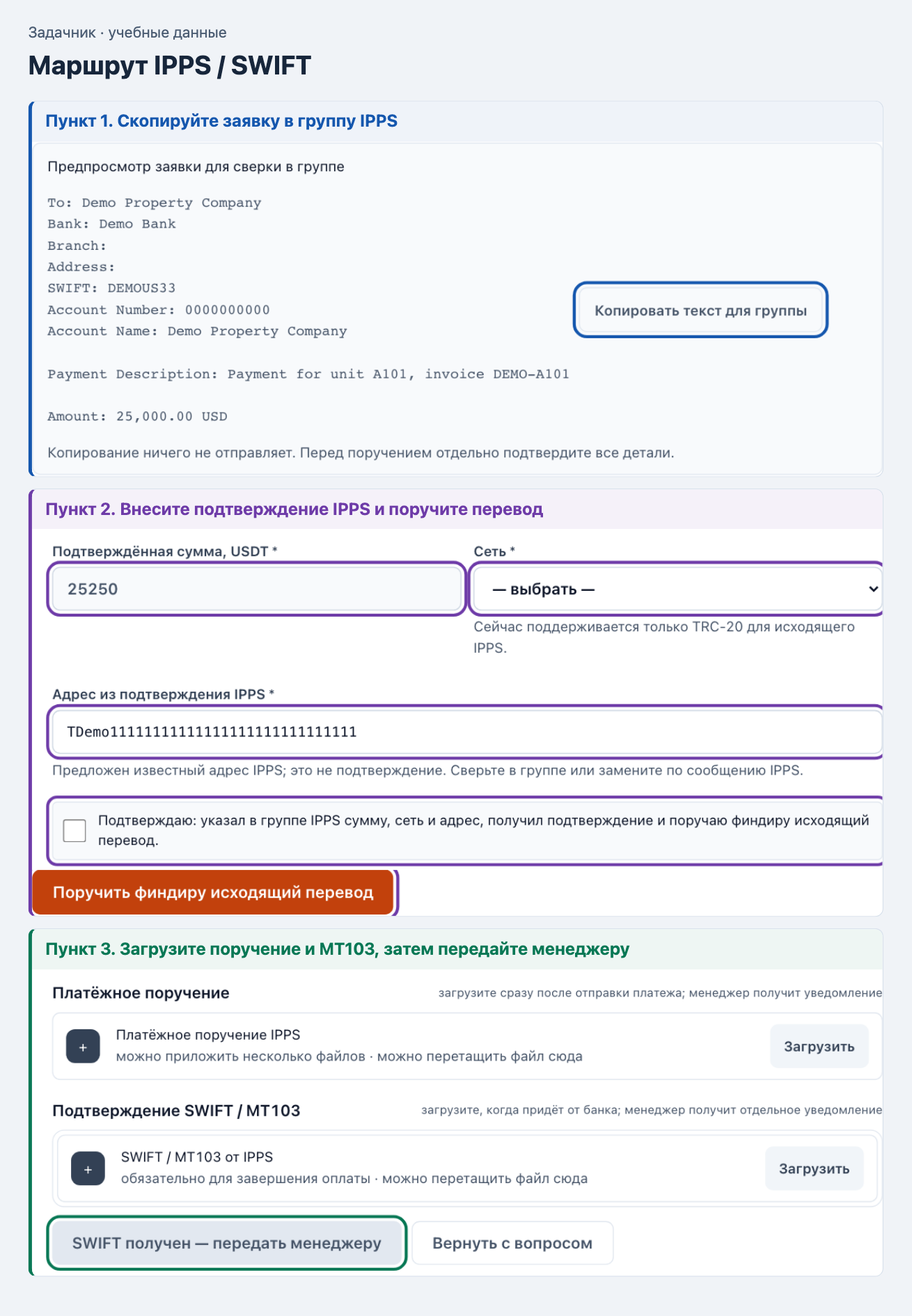
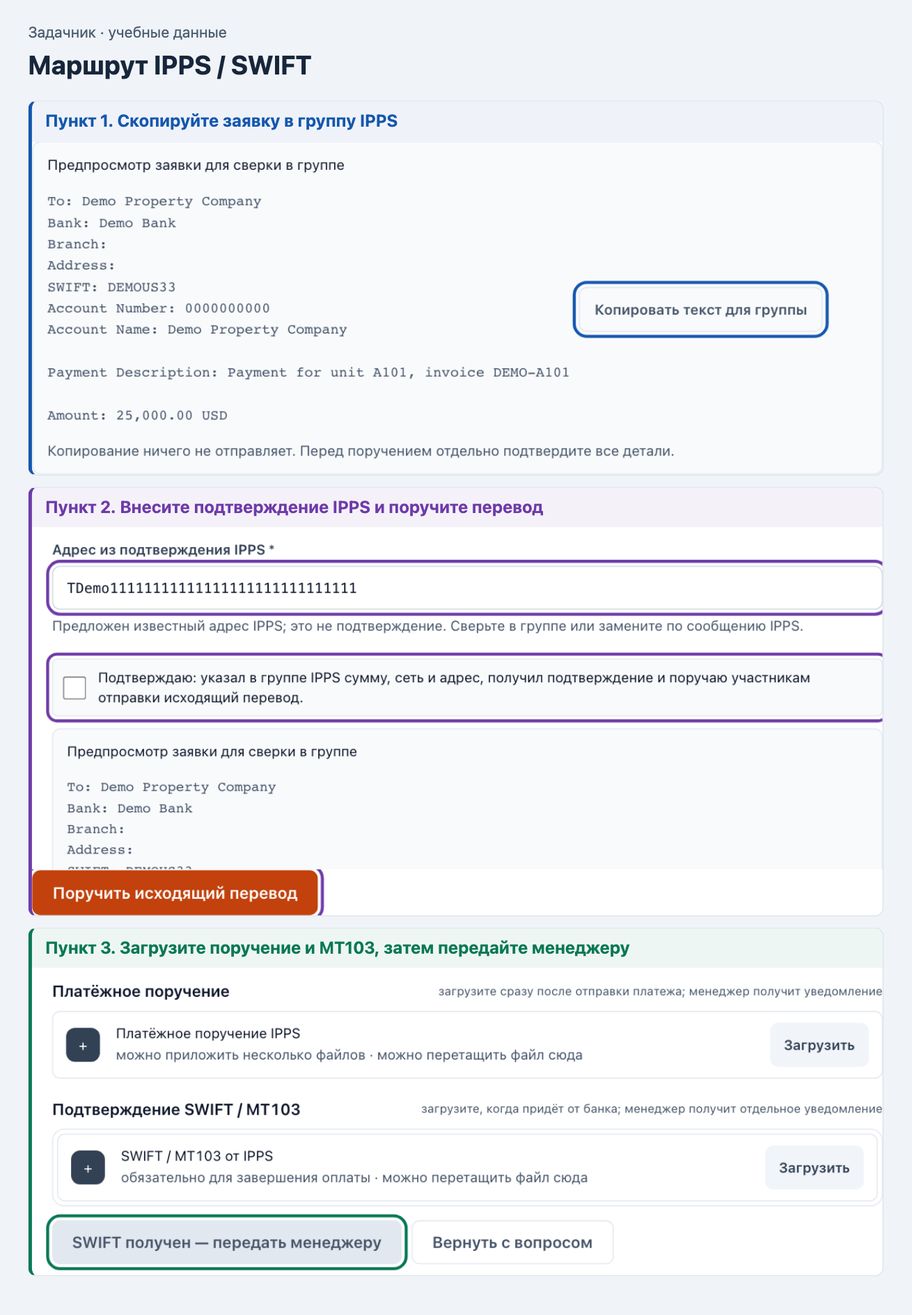
Document bank deductions and wallet signing workflows

diff --git a/docs/operator-guide/index.html b/docs/operator-guide/index.html
@@ -52,6 +52,11 @@
     .route-map dd a { white-space: normal; }
     .copy-field button { justify-self: start; padding: .35rem .7rem; border: 1px solid #b9ccdc; border-radius: .45rem; background: white; color: #184b85; font: inherit; cursor: pointer; }
     .copy-field button:focus-visible { outline: 2px solid #14674a; outline-offset: 2px; }
+    .table-scroll { overflow-x: auto; margin: .75rem 0; }
+    table { width: 100%; min-width: 29rem; border-collapse: collapse; font-size: .925rem; }
+    table caption { text-align: left; font-weight: 650; padding-bottom: .5rem; }
+    th, td { border-bottom: 1px solid #dce3ea; padding: .5rem .65rem; vertical-align: top; text-align: left; }
+    thead { background: #f7f9fc; }
   </style>
 </head>
 <body>
@@ -64,7 +69,7 @@
       <div><dt>Как оплачивается инвойс</dt><dd><a href="#ipps-payout">IPPS / SWIFT в USD</a> для фрихолда и авто, если в карточке указан этот маршрут. <a href="#coins">Coins → SCB</a> для выплат в батах через SCB. <a href="#prepay">Оплату наперёд</a> запускайте после согласования источника.</dd></div>
     </dl>
     <nav class="contents" aria-label="Разделы инструкции">
-      <a href="#rate">Запрос курса</a><a href="#ipds">ИПДС</a><a href="#contract">Договор</a><a href="#receipt">Приход в СГБ</a><a href="#sber">Приход в Сбер</a><a href="#broker">Брокер и USDT</a><a href="#coins">Coins и баты на SCB</a><a href="#scb-payout">Оплата со SCB</a><a href="#ipps-payout">IPPS / SWIFT</a><a href="#prepay">Оплата наперёд</a><a href="#exceptions">Нестандартные ситуации</a>
+      <a href="#rate">Запрос курса</a><a href="#ipds">ИПДС</a><a href="#contract">Договор</a><a href="#receipt">Приход в СГБ</a><a href="#sber">Приход в Сбер</a><a href="#broker">Брокер и USDT</a><a href="#send-sber">Отправка из Сбера</a><a href="#send-sgb">Отправка из СГБ</a><a href="#wallet-signing">Кошельки и подписи</a><a href="#coins">Coins и баты на SCB</a><a href="#scb-payout">Оплата со SCB</a><a href="#ipps-payout">IPPS / SWIFT</a><a href="#prepay">Оплата наперёд</a><a href="#exceptions">Нестандартные ситуации</a>
     </nav>
 
     <section id="rate" aria-labelledby="rate-title">
@@ -407,7 +412,7 @@
         <li><strong>Заполните «Подготовка пачки»</strong>
           <dl class="field-guide">
             <div><dt>Состав пачки</dt><dd>По умолчанию выбрана текущая сделка. Добавляйте другие подтверждённые поступления с этого счёта, только если они входят в тот же перевод брокеру. Перед отправкой проверьте весь состав.</dd></div>
-            <div><dt>Сумма пополнения клиента и сумма отправки брокеру, ₽</dt><dd>Первая показывает приход, вторая — сколько фактически уйдёт брокеру. Откройте <strong>«Расчёт отправки»</strong> и проверьте удержания для данного счёта. Если вводите вручную, перенесите фактическую сумму исходящего платежа.</dd></div>
+            <div><dt>Сумма пополнения клиента и сумма отправки брокеру, ₽</dt><dd>Первая показывает приход, вторая — сколько фактически уйдёт брокеру. Для <a href="#send-sber">Сбера</a> проверьте расчёт по шаблону <strong>0,3% + 40 ₽</strong>. Для <a href="#send-sgb">СГБ</a> рассчитайте сумму по выписке и внесите её вручную.</dd></div>
             <div><dt>Брокер и курс обмена RUB→USDT</dt><dd>Выберите согласованного брокера, проверьте его реквизиты в рабочей группе и укажите подтверждённый им курс в рублях за USDT.</dd></div>
             <div><dt>Когда отправили рубли брокеру</dt><dd>Запишите фактические дату и время отправки по МСК. Эти данные помогают найти ответный перевод.</dd></div>
             <div><dt>Куда брокер пришлёт USDT · TRC-20</dt><dd>Выберите согласованный корпоративный кошелёк. Сверьте полный адрес и сеть с данными, переданными брокеру.</dd></div>
@@ -415,7 +420,7 @@
           Откройте <a href="https://t.me/c/3984596268/3025">Grusha (MF)| Tradex</a> или <a href="https://t.me/c/3969064520/2874">Asia Capital x Grusha (rub-usdt) | АК-1001</a>, если с этой группой согласован обмен. Для другого брокера используйте кнопку <strong>«чат»</strong> в его строке запроса курса.
         </li>
         <li><strong>Зафиксируйте отправку рублей</strong>
-          После фактического рублёвого перевода и сверки полей нажмите <strong>«Отправил брокеру — ждём USDT»</strong>. Задача перейдёт на <strong>«Ждём USDT от брокера»</strong>. Если у вас нет доступа к исходящему переводу, получите подтверждение ответственного и перенесите данные из него.
+          Создайте платёжное поручение по инструкции для <a href="#send-sber">Сбера</a> или <a href="#send-sgb">СГБ</a>. После фактической отправки и сверки полей нажмите <strong>«Отправил брокеру — ждём USDT»</strong>. Если право отправки у другого сотрудника, возьмите сумму и время из его подтверждения.
         </li>
         <li><strong>Сверьте входящий перевод USDT</strong>
           <dl class="field-guide">
@@ -438,6 +443,103 @@
       </div>
     </section>
 
+
+    <section id="send-sber" aria-labelledby="send-sber-title">
+      <h2 id="send-sber-title">Отправка рублей брокеру из Сбера</h2>
+      <p>Используйте этот порядок для средств, зачисленных на счёт MF Corporation в Сбере <strong>…0286</strong>.</p>
+      <figure>
+        <a class="figure-link" href="operator-screens/17-sber-outgoing-overview.png">
+          <img src="operator-screens/17-sber-outgoing-overview.png" alt="Расчёт суммы в Задачнике и поля рублёвого платёжного поручения СберБизнес." loading="lazy">
+          <span>Открыть экран крупнее</span>
+        </a>
+      </figure>
+      <ol class="steps">
+        <li><strong>Рассчитайте сумму к отправке</strong>
+          В <strong>«Подготовка пачки · Сбер»</strong> от подтверждённой суммы вычтите <strong>0,3% + 40 ₽</strong>. В шаблоне Задачника <strong>0,1% + 40 ₽</strong> — расход на валютный контроль, <strong>0,2%</strong> остаётся на рублёвом счёте компании. Например, при пополнении на <strong>100 000 ₽</strong> удержание составит <strong>340 ₽</strong>. В поле <strong>«Сумма отправки брокеру, ₽»</strong> будет <strong>99 660 ₽</strong>.
+        </li>
+        <li><strong>Создайте рублёвое платёжное поручение</strong>
+          В СберБизнес откройте <strong>«Платежи и переводы» → «Новый документ» → «Рублёвый платёж»</strong>. Выберите счёт списания <strong>…0286</strong>. Укажите получателя, ИНН и КПП при наличии, БИК и счёт брокера из подтверждённых реквизитов. Перенесите рассчитанную сумму и согласованное назначение для платежа брокеру. Приложите обосновывающий документ, если он требуется.
+          <a href="https://www.sberbank.ru/help/business/sbbol/scheta-i-platezhy/gen_info/100882">Инструкция СберБизнес по форме платежа</a>.
+        </li>
+        <li><strong>Передайте на банковскую подпись и зафиксируйте отправку</strong>
+          Операционист готовит платёжку. Сотрудник с правом подписи сверяет её, подписывает и отправляет в банк. Когда поручение исполнено, сохраните подтверждение из СберБизнес. Сверьте сумму и время с полями в Задачнике, затем нажмите <strong>«Отправил брокеру — ждём USDT»</strong>.
+        </li>
+      </ol>
+    </section>
+
+    <section id="send-sgb" aria-labelledby="send-sgb-title">
+      <h2 id="send-sgb-title">Отправка рублей брокеру из СГБ</h2>
+      <p>Используйте этот порядок для средств на рублёвом счёте Flow Sole в СГБ <strong>…0261</strong>. СГБ списывает валютный контроль на входящем и исходящем платеже. Ставка на каждую операцию <strong>0,25% + НДС</strong>. За каждое исходящее платёжное поручение добавляется <strong>41 ₽</strong>. На двух процентных списаниях получается около <strong>0,6%</strong>. <a href="https://t.me/c/4387135684/552">Разъяснение СГБ для Flow Sole</a>.</p>
+      <figure>
+        <a class="figure-link" href="operator-screens/18-sgb-outgoing-overview.png">
+          <img src="operator-screens/18-sgb-outgoing-overview.png" alt="Архивный интерфейс СГБ с пунктами Платежные поручения, Создать и Подписать. Реквизиты скрыты." loading="lazy">
+          <span>Открыть экран крупнее</span>
+        </a>
+      </figure>
+      <ol class="steps">
+        <li><strong>Сверьте остаток по выписке и оставьте комиссию на выход</strong>
+          <dl class="field-guide">
+            <div><dt>Входящая комиссия</dt><dd>Найдите списание по этому приходу. Если комиссию уже списали, берите доступный остаток по сделке после этого списания. Если ещё не списали, предусмотрите её в расчёте.</dd></div>
+            <div><dt>Исходящая комиссия и платёжка</dt><dd>От рассчитанного остатка оставьте столько, чтобы хватило на комиссию исходящего перевода и 41 ₽ за каждое поручение. Комиссия исходящего платежа считается от суммы, которую укажете в платёжке.</dd></div>
+            <div><dt>Пример на 1 000 000 ₽</dt><dd>При НДС 22% входящая комиссия составит 3 050 ₽, остаток по приходу — 996 950 ₽. При одной исходящей платёжке можно ориентироваться на <strong>993 877,67 ₽</strong> брокеру, около <strong>3 031,33 ₽</strong> на валютный контроль и <strong>41 ₽</strong> на платёжку. Сверьте фактический расчёт с банком и остаток по выписке перед подписью.</dd></div>
+            <div><dt>Сумма отправки брокеру, ₽</dt><dd>В <strong>«Подготовка пачки · Flow Sole»</strong> введите рассчитанную сумму вручную. Подставленный шаблон <strong>0,3% + 40 ₽</strong> относится к расчёту для Сбера. Сумма в поле должна совпасть с исходящей платёжкой СГБ.</dd></div>
+          </dl>
+        </li>
+        <li><strong>Создайте поручение в СГБ Бизнес Онлайн</strong>
+          Откройте <strong>«Рублевые документы» → «Платежное поручение» → «Создать»</strong>. Выберите расчётный счёт Flow Sole <strong>…0261</strong>. Сверьте получателя, ИНН, БИК и счёт с подтверждёнными реквизитами брокера. Введите рассчитанную сумму и назначение по договору с брокером. Если СГБ согласовал специальное назначение, код валютной операции или пакет документов, используйте согласованные данные.
+          <a href="https://ibc.severgazbank.ru/">Вход в СГБ Бизнес Онлайн</a>.
+        </li>
+        <li><strong>Передайте на подпись и проверьте исполнение</strong>
+          Сотрудник с правом подписи открывает подготовленную платёжку и сверяет сумму, реквизиты, назначение и остаток под комиссии. После подписания и подтверждения банком проверьте статус и сохраните исполненное поручение. В Задачнике заполните фактическую сумму и время и нажмите <strong>«Отправил брокеру — ждём USDT»</strong>.
+        </li>
+      </ol>
+      <div class="copy-field">
+        <label for="sgb-cost-check">Сообщение в СГБ для сверки комиссии по платежу</label>
+        <textarea id="sgb-cost-check" readonly rows="3">Добрый день! По счёту Flow Sole …0261 собираем платёж брокеру. Приход [сумма] ₽, по выписке за зачисление списано [сумма] ₽, планируем исходящее поручение на [сумма] ₽. Подтвердите, пожалуйста, комиссию по исходящему платежу и достаточность остатка.</textarea>
+      </div>
+    </section>
+
+    <section id="wallet-signing" aria-labelledby="wallet-signing-title">
+      <h2 id="wallet-signing-title">Кошельки и подписи</h2>
+      <p>В <a href="/crm?section=transactions">CRM → Транзакции</a> найдите кошелёк в списке. В карточке отправки проверьте его назначение, сеть и строку <strong>«Заводит / Подписывает»</strong>. Если в карточке изменились правила, действуйте по показанным в ней ролям.</p>
+      <div class="table-scroll">
+        <table>
+          <caption>Кошельки компании с настроенными ролями</caption>
+          <thead><tr><th scope="col">Кошелёк</th><th scope="col">Заводит перевод</th><th scope="col">Подписывает после создания</th></tr></thead>
+          <tbody>
+            <tr><th scope="row">Груша Недвижимость</th><td>Операционист или финдир</td><td>Теодор</td></tr>
+            <tr><th scope="row">Grusha Property &lt; 10 000</th><td>Операционист</td><td>Финдир или Теодор</td></tr>
+            <tr><th scope="row">Груша Обменник</th><td>Операционист</td><td>Финдир или Теодор. Свыше 10 000 USDT требуется согласование владельца</td></tr>
+            <tr><th scope="row">Mfstr</th><td>Финдир</td><td>Теодор</td></tr>
+            <tr><th scope="row">99 · средства клиента</th><td>Операционист</td><td>Теодор</td></tr>
+            <tr><th scope="row">OTC Martrust</th><td>Операционист</td><td>Теодор</td></tr>
+          </tbody>
+        </table>
+      </div>
+      <p>Теодор может отправить сам с кошельков компании, где есть отметка <strong>«владелец может отправить сам»</strong>. У личного кошелька владельца, например Андрея или Теодора, перевод выполняет сам владелец. Для остальных кошельков сверяйте назначение и правила в карточке.</p>
+      <figure>
+        <a class="figure-link" href="operator-screens/19-wallet-signing-overview.png">
+          <img src="operator-screens/19-wallet-signing-overview.png" alt="Кнопка Начать работу или Передать финдиру, поля транзакции, затем задача на подпись." loading="lazy">
+          <span>Открыть экран крупнее</span>
+        </a>
+      </figure>
+      <ol class="steps">
+        <li><strong>Возьмите задачу или передайте её</strong>
+          В <strong>«Отправить с кошелька»</strong> проверьте, кто указан в <strong>«Заводит»</strong>. Если это операционист, нажмите <strong>«Начать работу»</strong>. Когда доступна передача финдиру и он будет заводить перевод, нажмите <strong>«Передать» → «Финансисту»</strong>. После передачи проверьте, что он назначен. Если кто-то уже начал работу, выясните, создана ли транзакция, до повторного создания.
+        </li>
+        <li><strong>Заведите транзакцию и передайте на подпись</strong>
+          Откройте выбранный кошелёк и подготовьте транзакцию по поручению. Сверьте сеть, токен, полный адрес получателя, сумму и источник. В поле <strong>«Что проверили»</strong> оставьте краткую сверку для подписанта. Нажмите <strong>«Передать на подпись»</strong>. Подпись в кошельке ставит сотрудник с ролью <strong>«Подписывает»</strong>. После подписи он отмечает <strong>«Деньги отправлены»</strong>, если кнопка показана в его задаче.
+        </li>
+        <li><strong>Проверьте фактическую отправку</strong>
+          Когда подписант отправил транзакцию, откройте <strong>«Проверить отправку»</strong>. Используйте <strong>«Найти перевод в сети»</strong> или вставьте полный хеш в <strong>«Хеш перевода»</strong> и нажмите <strong>«Проверить и отметить отправку»</strong>. Сверьте сеть, адреса и фактическую сумму. Для нескольких частей проверьте каждый хеш.
+        </li>
+      </ol>
+      <div class="copy-field">
+        <label for="signer-request">Запись для подписанта</label>
+        <textarea id="signer-request" readonly rows="3">СД-[номер]. Сверены источник [кошелёк], получатель [название и адрес], сеть [сеть], сумма [сумма] USDT. Назначение [IPPS / Coins / другое]. Транзакция подготовлена, нужна подпись по правилам кошелька.</textarea>
+      </div>
+    </section>
+
     <section id="coins" aria-labelledby="coins-title">
       <h2 id="coins-title">7. Конвертировать через Coins и сверить баты на SCB</h2>
       <p>На <strong>«Что делаем с USDT»</strong> выберите этот маршрут, когда по сделке согласовано получить THB на счёт MF Corporation в SCB. Для нескольких сделок в пачке заполните назначение каждой.</p>
@@ -452,11 +554,11 @@
           <dl class="field-guide">
             <div><dt>Что делаем</dt><dd>Выберите вариант Coins для получения батов.</dd></div>
             <div><dt>Курс Coins</dt><dd>Запросите курс на текущую сумму в чате <a href="tg://openmessage?chat_id=5187853852">Coins TH | mfcorpthai@gmail.com</a>. Введите подтверждённое количество батов за 1 USDT.</dd></div>
-            <div><dt>Баты на счёт MF Corp, включая комиссию</dt><dd>Сверьте сумму получателю и комиссию компании по заявке. В поле <strong>«К отправке»</strong> Задачник рассчитает USDT. Сверьте расчёт с подтверждением Coins и с доступной долей сделки.</dd></div>
+            <div><dt>Баты на счёт MF Corp, включая комиссию</dt><dd>Для выплаты инвойса через SCB запросите у Coins сумму инвойса в THB <strong>плюс 1%</strong> на счёт MF Corp. Например, по инвойсу на <strong>100 ฿</strong> запросите <strong>101 ฿</strong> на SCB. Получателю перечислите <strong>100 ฿</strong>, <strong>1 ฿</strong> остаётся на счёте компании. В поле <strong>«К отправке»</strong> Задачник рассчитает USDT по курсу Coins от 101 ฿.</dd></div>
           </dl>
         </li>
         <li><strong>Сверьте адрес и сеть, передайте отправку</strong>
-          Проверьте поля <strong>«Кому»</strong>, <strong>«Кошелёк получателя»</strong> и <strong>«Сеть»</strong> по подтверждению Coins. Нажмите кнопку передачи, которую показывает Задачник. По корпоративному кошельку работают исполнители и подписанты из правил кошелька. Для личного кошелька перевод выполняет владелец.
+          Проверьте поля <strong>«Кому»</strong>, <strong>«Кошелёк получателя»</strong> и <strong>«Сеть»</strong> по подтверждению Coins. На <strong>«Отправить с кошелька»</strong> возьмите задачу или передайте исполнителю с правом завести перевод. Для подписи следуйте правилам выбранного кошелька. <a href="#wallet-signing">Кошельки и подписи</a>.
         </li>
         <li><strong>Отправьте данные Coins после подтверждения перевода</strong>
           Дождитесь проверенного хеша. На этапе <strong>«Известить Coins»</strong> нажмите <strong>«Копировать всё для Coins»</strong> по нужной сделке. Вставьте текст в рабочую группу Coins. Проверьте адреса, сеть, все относящиеся к сделке хеши, сумму и счёт выдачи. После отправки сообщения нажмите <strong>«Известил Coins — ждём баты на SCB»</strong>.
@@ -489,7 +591,7 @@
           В <strong>«Оплатить инвойс получателю»</strong> сверьте получателя, банк, счёт, сумму THB, инвойс и <strong>«Назначение для банка застройщика»</strong>. Это назначение для выплаты получателю. Менеджер заполняет его в реквизитах и нажимает <strong>«Реквизиты верны — можно платить»</strong>. Если поле пустое, назначение отличается от инвойса или реквизиты изменились, используйте <strong>«Вернуть с вопросом»</strong> и дождитесь подтверждения.
         </li>
         <li><strong>Приложите банковский чек и передайте менеджеру</strong>
-          После фактической выплаты со счёта SCB · MF Corp откройте <strong>«Чек об оплате»</strong>, нажмите <strong>«Загрузить»</strong> и приложите подтверждение. Если выплата разбита, приложите все чеки. Нажмите <strong>«Оплатил инвойс — передать чек менеджеру»</strong>.
+          Со счёта <strong>SCB · MF Corp</strong> перечислите получателю сумму инвойса. Например, из 101 ฿, пришедшего от Coins, оплатите получателю 100 ฿. После выплаты откройте <strong>«Чек об оплате»</strong>, нажмите <strong>«Загрузить»</strong> и приложите подтверждение. Если выплата разбита, приложите все чеки. Нажмите <strong>«Оплатил инвойс — передать чек менеджеру»</strong>.
         </li>
         <li><strong>Проверьте передачу на закрытие</strong>
           У менеджера появится <strong>«Закрытие сделки»</strong>. Он проверяет документы выплаты, отправляет чек клиенту, отмечает отправку и завершает закрытие в CRM. Если просит исправить документы, вернитесь к задаче по уведомлению.
@@ -503,7 +605,13 @@
 
     <section id="ipps-payout" aria-labelledby="ipps-payout-title">
       <h2 id="ipps-payout-title">9. Согласовать заявку IPPS и получить SWIFT / MT103</h2>
-      <p>Этот маршрут используйте для фрихолда и оплаты авто, если заявка оформлена с выплатой через IPPS. Получателю уходят USD. Сумма USDT для IPPS рассчитывается отдельно и зависит от выбранного тарифа.</p>
+      <p>Этот маршрут используйте для фрихолда и оплаты авто, если заявка оформлена с выплатой через IPPS. Сверьте вариант счёта, согласованный в карточке сделки.</p>
+      <dl class="field-guide">
+        <div><dt>Обычный банковский счёт · «Банк» в Задачнике</dt><dd>Платёж от компании. Для сделки с FET указывается вариант <strong>«Банк · FET от компании»</strong>. В расчёте Задачника для этого режима используется <strong>0,8% + $50</strong>.</dd></div>
+        <div><dt>Виртуальный счёт · «Софт-счёт» в Задачнике</dt><dd>Платёж от имени клиента. Проверьте <strong>POBO</strong> — ФИО латиницей, как в паспорте. Задачник добавляет его первой строкой в заявку для IPPS. В расчёте Задачника для этого режима используется <strong>1,5% + $50</strong>.</dd></div>
+        <div><dt>Две суммы</dt><dd>В строке <strong>Amount</strong> укажите сумму инвойса в USD, которая должна дойти получателю. В поле исходящего перевода укажите рассчитанную и подтверждённую сумму <strong>USDT с комиссией IPPS</strong>. Если вариант счёта изменился, согласуйте с менеджером пересчёт сделки до отправки поручения.</dd></div>
+        <div><dt>Пример для инвойса на 10 000 USD</dt><dd>По расчёту Задачника к отправке в IPPS получится <strong>10 130 USDT</strong> через обычный счёт или <strong>10 200 USDT</strong> через виртуальный. Получателю в обоих случаях должно дойти <strong>10 000 USD</strong>.</dd></div>
+      </dl>
       <figure>
         <a class="figure-link" href="operator-screens/15-ipps-overview.png">
           <img src="operator-screens/15-ipps-overview.png" alt="Предпросмотр заявки IPPS, поля для подтверждённой суммы, сети и адреса, загрузка поручения и MT103." loading="lazy">
@@ -518,7 +626,7 @@
           <dl class="field-guide">
             <div><dt>Подтверждённая сумма, USDT</dt><dd>Задачник рассчитывает её по инвойсу и тарифу. Если сумма IPPS отличается, уточните условия и дождитесь согласованного расчёта в карточке.</dd></div>
             <div><dt>Сеть и адрес из подтверждения IPPS</dt><dd>Для этого поручения доступна сеть TRC-20. Перенесите полный адрес из ответа на текущую заявку и сверьте его с полем в задачнике.</dd></div>
-            <div><dt>Подтверждение заявки</dt><dd>После ответа IPPS поставьте галочку, что сумма, сеть и адрес согласованы. Нажмите <strong>«Поручить исходящий перевод»</strong>. В названии кнопки может быть указан финдир или владелец кошелька.</dd></div>
+            <div><dt>Подтверждение заявки</dt><dd>После ответа IPPS поставьте галочку, что сумма, сеть и адрес согласованы. Нажмите кнопку поручения исходящего перевода. Дальше операционист может завести транзакцию, если указан в <strong>«Заводит»</strong>. Варианты передачи и подписания зависят от выбранного кошелька. <a href="#wallet-signing">Кошельки и подписи</a>.</dd></div>
           </dl>
           Дождитесь фактической отправки, подписи по правилам кошелька и сетевой проверки хеша. Передайте IPPS подтверждённый хеш, когда он понадобится для привязки платежа к заявке.
         </li>
